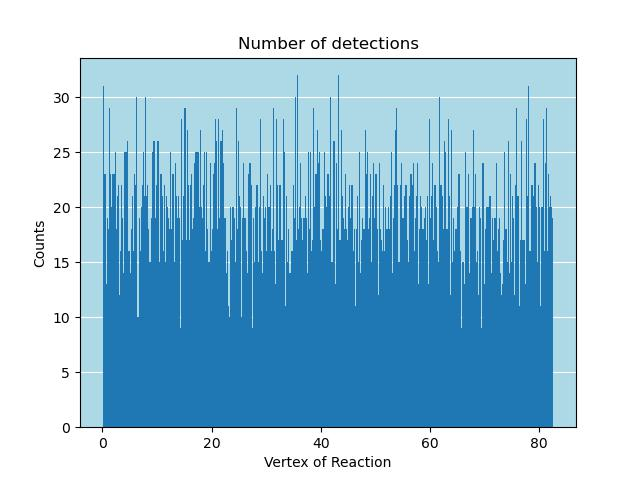
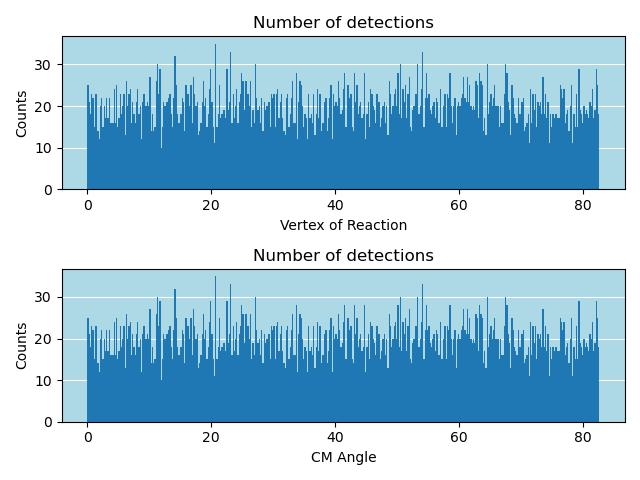
Made plot have 2 subplots

diff --git a/main.py b/main.py
@@ -166,7 +166,8 @@ class Window(Tk):
         elif state == "on":
             self.run_button["state"] = "active"
         
-    
+    def createFigViewer():
+        pass
 
 class Kinematics():
     def __init__(self):
@@ -237,28 +238,25 @@ class Kinematics():
         p.start()
         
     def createFig(self):
-        fig,ax = plt.subplots(nrows=1,ncols=1)
-        ax.set_xlabel("Vertex of Reaction")
-        ax.set_ylabel("Counts")
-        ax.set_title("Number of detections")
-        ax.set_facecolor('#ADD8E6')
-        ax.set_axisbelow(True)
-        ax.yaxis.grid(color='white', linestyle='-')
-        plt.hist(self.detectedVert,bins=np.arange(min(self.detectedVert),max(self.detectedVert)+0.1,0.2))
-        plt.savefig(os.path.join(temp_folder,'fig1.jpg'),format="jpg")
-        plt.cla()
-        plt.clf()
-        plt.close('all')
+        fig,ax = plt.subplots(nrows=2,ncols=1)
+        ax[0].set_xlabel("Vertex of Reaction")
+        ax[0].set_ylabel("Counts")
+        ax[0].set_title("Number of detections")
+        ax[0].set_facecolor('#ADD8E6')
+        ax[0].set_axisbelow(True)
+        ax[0].yaxis.grid(color='white', linestyle='-')
+        ax[0].hist(self.detectedVert,bins=np.arange(min(self.detectedVert),max(self.detectedVert)+0.1,0.2))
 
-        fig,ax = plt.subplots(nrows=1,ncols=1)
-        ax.set_xlabel("CM Angle")
-        ax.set_ylabel("Counts")
-        ax.set_title("Number of detections")
-        ax.set_facecolor('#ADD8E6')
-        ax.set_axisbelow(True)
-        ax.yaxis.grid(color='white', linestyle='-')
-        plt.hist(self.detectedVert,bins=np.arange(min(self.detectedVert),max(self.detectedVert)+0.1,0.2))
-        plt.savefig(os.path.join(temp_folder,'fig2.jpg'),format="jpg")
+        ax[1].set_xlabel("CM Angle")
+        ax[1].set_ylabel("Counts")
+        ax[1].set_title("Number of detections")
+        ax[1].set_facecolor('#ADD8E6')
+        ax[1].set_axisbelow(True)
+        ax[1].yaxis.grid(color='white', linestyle='-')
+        ax[1].hist(self.detectedVert,bins=np.arange(min(self.detectedVert),max(self.detectedVert)+0.1,0.2))
+        plt.tight_layout()
+        plt.savefig(os.path.join(temp_folder,'fig1.jpg'),format="jpg")
+        plt.show()
         plt.cla()
         plt.clf()
         plt.close('all')
